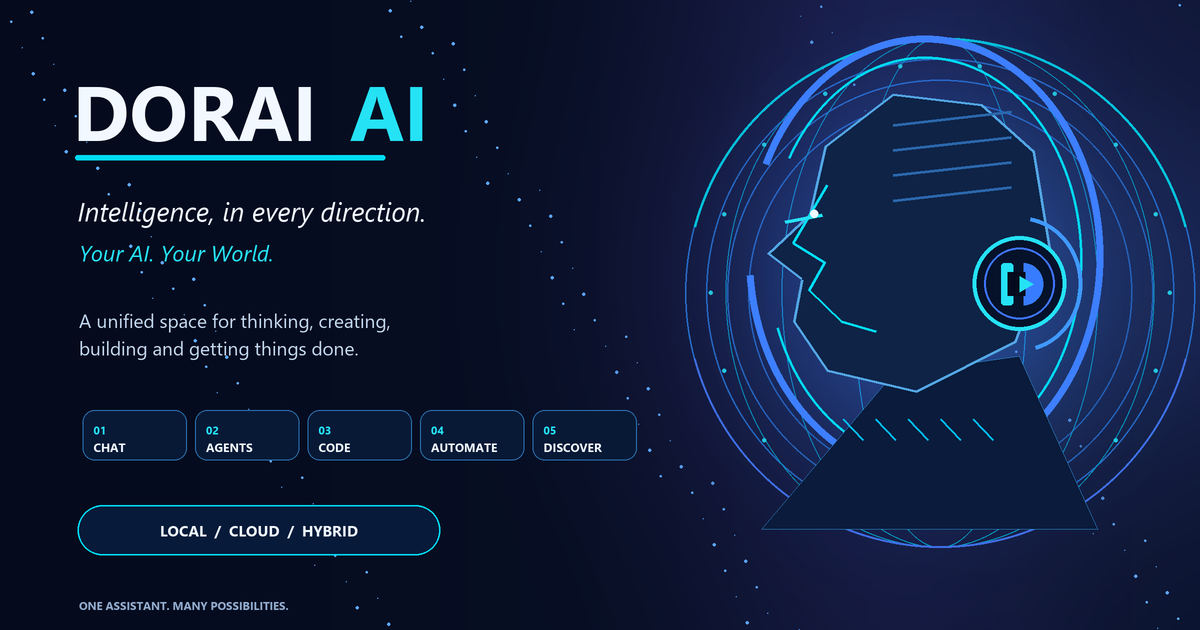
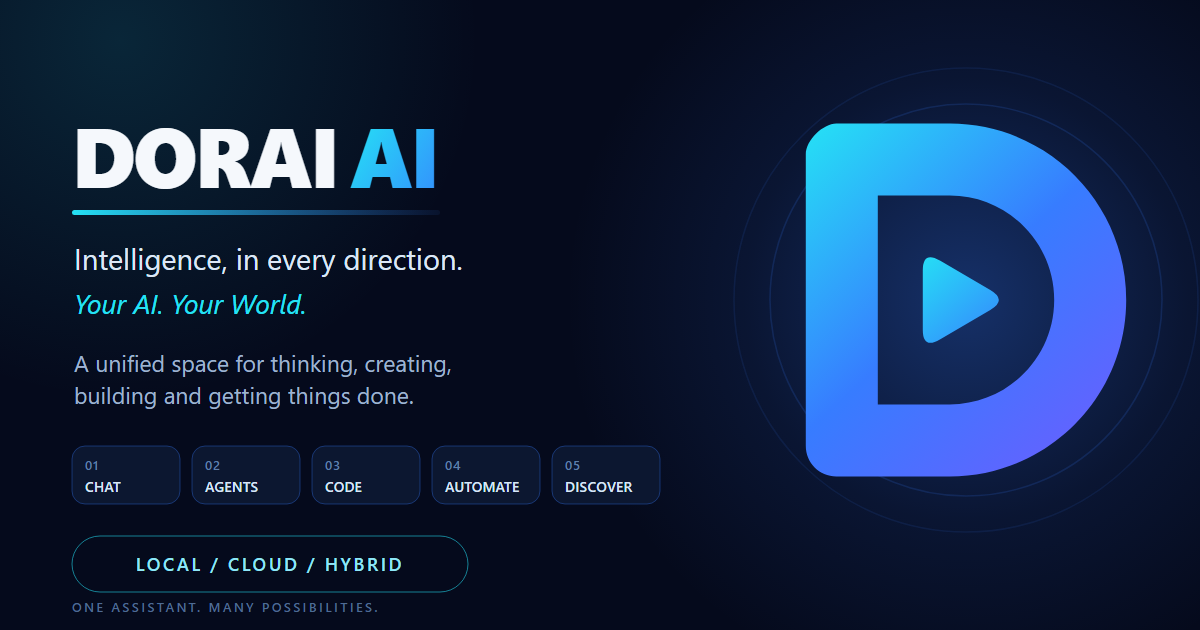
feat(site): rebuild the social card with the current mark
The Open Graph and Twitter card still carried the pre-migration logo and the retired
hero illustration, so every shared link advertised artwork the project no longer
uses. Redraw it from the new D mark on the pack field, keeping every string the site
already publishes - lockup, taglines, description, feature chips and platform pill.

Verify the render at exactly 1200x630: the mark and outer ring stay inside the
canvas, every chip label clears its box by 8px, and both PNG copies are identical.

diff --git a/docs/branding/dorai/LOGO_IMPLEMENTATION_REPORT.md b/docs/branding/dorai/LOGO_IMPLEMENTATION_REPORT.md
@@ -194,3 +194,20 @@ source: `docs/branding/dorai/assets/motion/logo-animation.svg` (copied to `site/
 `assets/motion/logo-animation.gif` is a 400², 64-frame, 18 fps raster built from the same layers for
 surfaces that cannot animate SVG. Verified in headless Chrome: 14.5 % canvas coverage at 150 ms versus
 33.7 % settled, and the settled frame matches the static pack symbol at IoU 0.9977.
+
+## Social card
+
+`site/img/preview-banner.png` (and its byte-identical twin `site/img/og-preview.png`) still showed the
+pre-migration mark, the retired hero illustration and the old purple accents, while `site/index.html`
+advertises it as `og:image`, `twitter:image` and the JSON-LD `image`. Authoring it again from the new
+mark also removes the last old-logo artwork from the deployed site.
+
+The card keeps every string the site already publishes — the lockup, “Intelligence, in every
+direction.”, “Your AI. Your World.”, the two-line description, the 01–05 feature chips, the
+LOCAL / CLOUD / HYBRID pill and “ONE ASSISTANT. MANY POSSIBILITIES.” — and swaps only the artwork:
+the old hero illustration and hexagon mark are replaced by the D mark on `#050A1C` with two faint
+concentric rings and a soft radial glow.
+
+Verified after rendering at 1200×630: the mark and the outer ring stay inside the canvas (right edge
+1198), every chip label fits its box with at least 8 px of padding, the navy field has no white
+pixels, and both output files are 24-bit RGB and byte-identical.

diff --git a/docs/branding/dorai/LOGO_ASSET_USAGE_MAP.md b/docs/branding/dorai/LOGO_ASSET_USAGE_MAP.md
@@ -83,3 +83,14 @@ Authored from pack parts; the pack itself ships no animation. Nothing here is a 
 |---|---|---|
 | `logo-animation.svg` | 512² animated mark: 0.9 s left-to-right reveal, core pop-in with halo at 0.82 s, 4.2 s breathe loop; `prefers-reduced-motion` shows the static mark | **used** → `site/img/logo_animation.svg` (hero mascot, `site/index.html:101`) |
 | `logo-animation.gif` | 400², 64 frames at 18 fps (3.6 s loop) on the `#050A1C` field, for surfaces that cannot animate SVG | available for README/store/social use |
+
+## Social card (`store/`)
+
+`site/img/preview-banner.png` and its byte-identical copy `site/img/og-preview.png` are the 1200×630
+Open Graph and Twitter card images referenced by `site/index.html` (`og:image`, `twitter:image`,
+JSON-LD `image`). They were re-authored on 2026-11-05 from the new mark and the existing site copy.
+
+| Asset | Purpose | Where used |
+|---|---|---|
+| `social-card.svg` | 1200×630 card: D mark on `#050A1C`, the project lockup, both taglines, the platform story, the five feature chips and the local/cloud/hybrid pill | **source** for both PNGs |
+| (raster output) | Rendered with headless Chrome at 1× and flattened to 24-bit RGB | `site/img/preview-banner.png`, `site/img/og-preview.png` |
